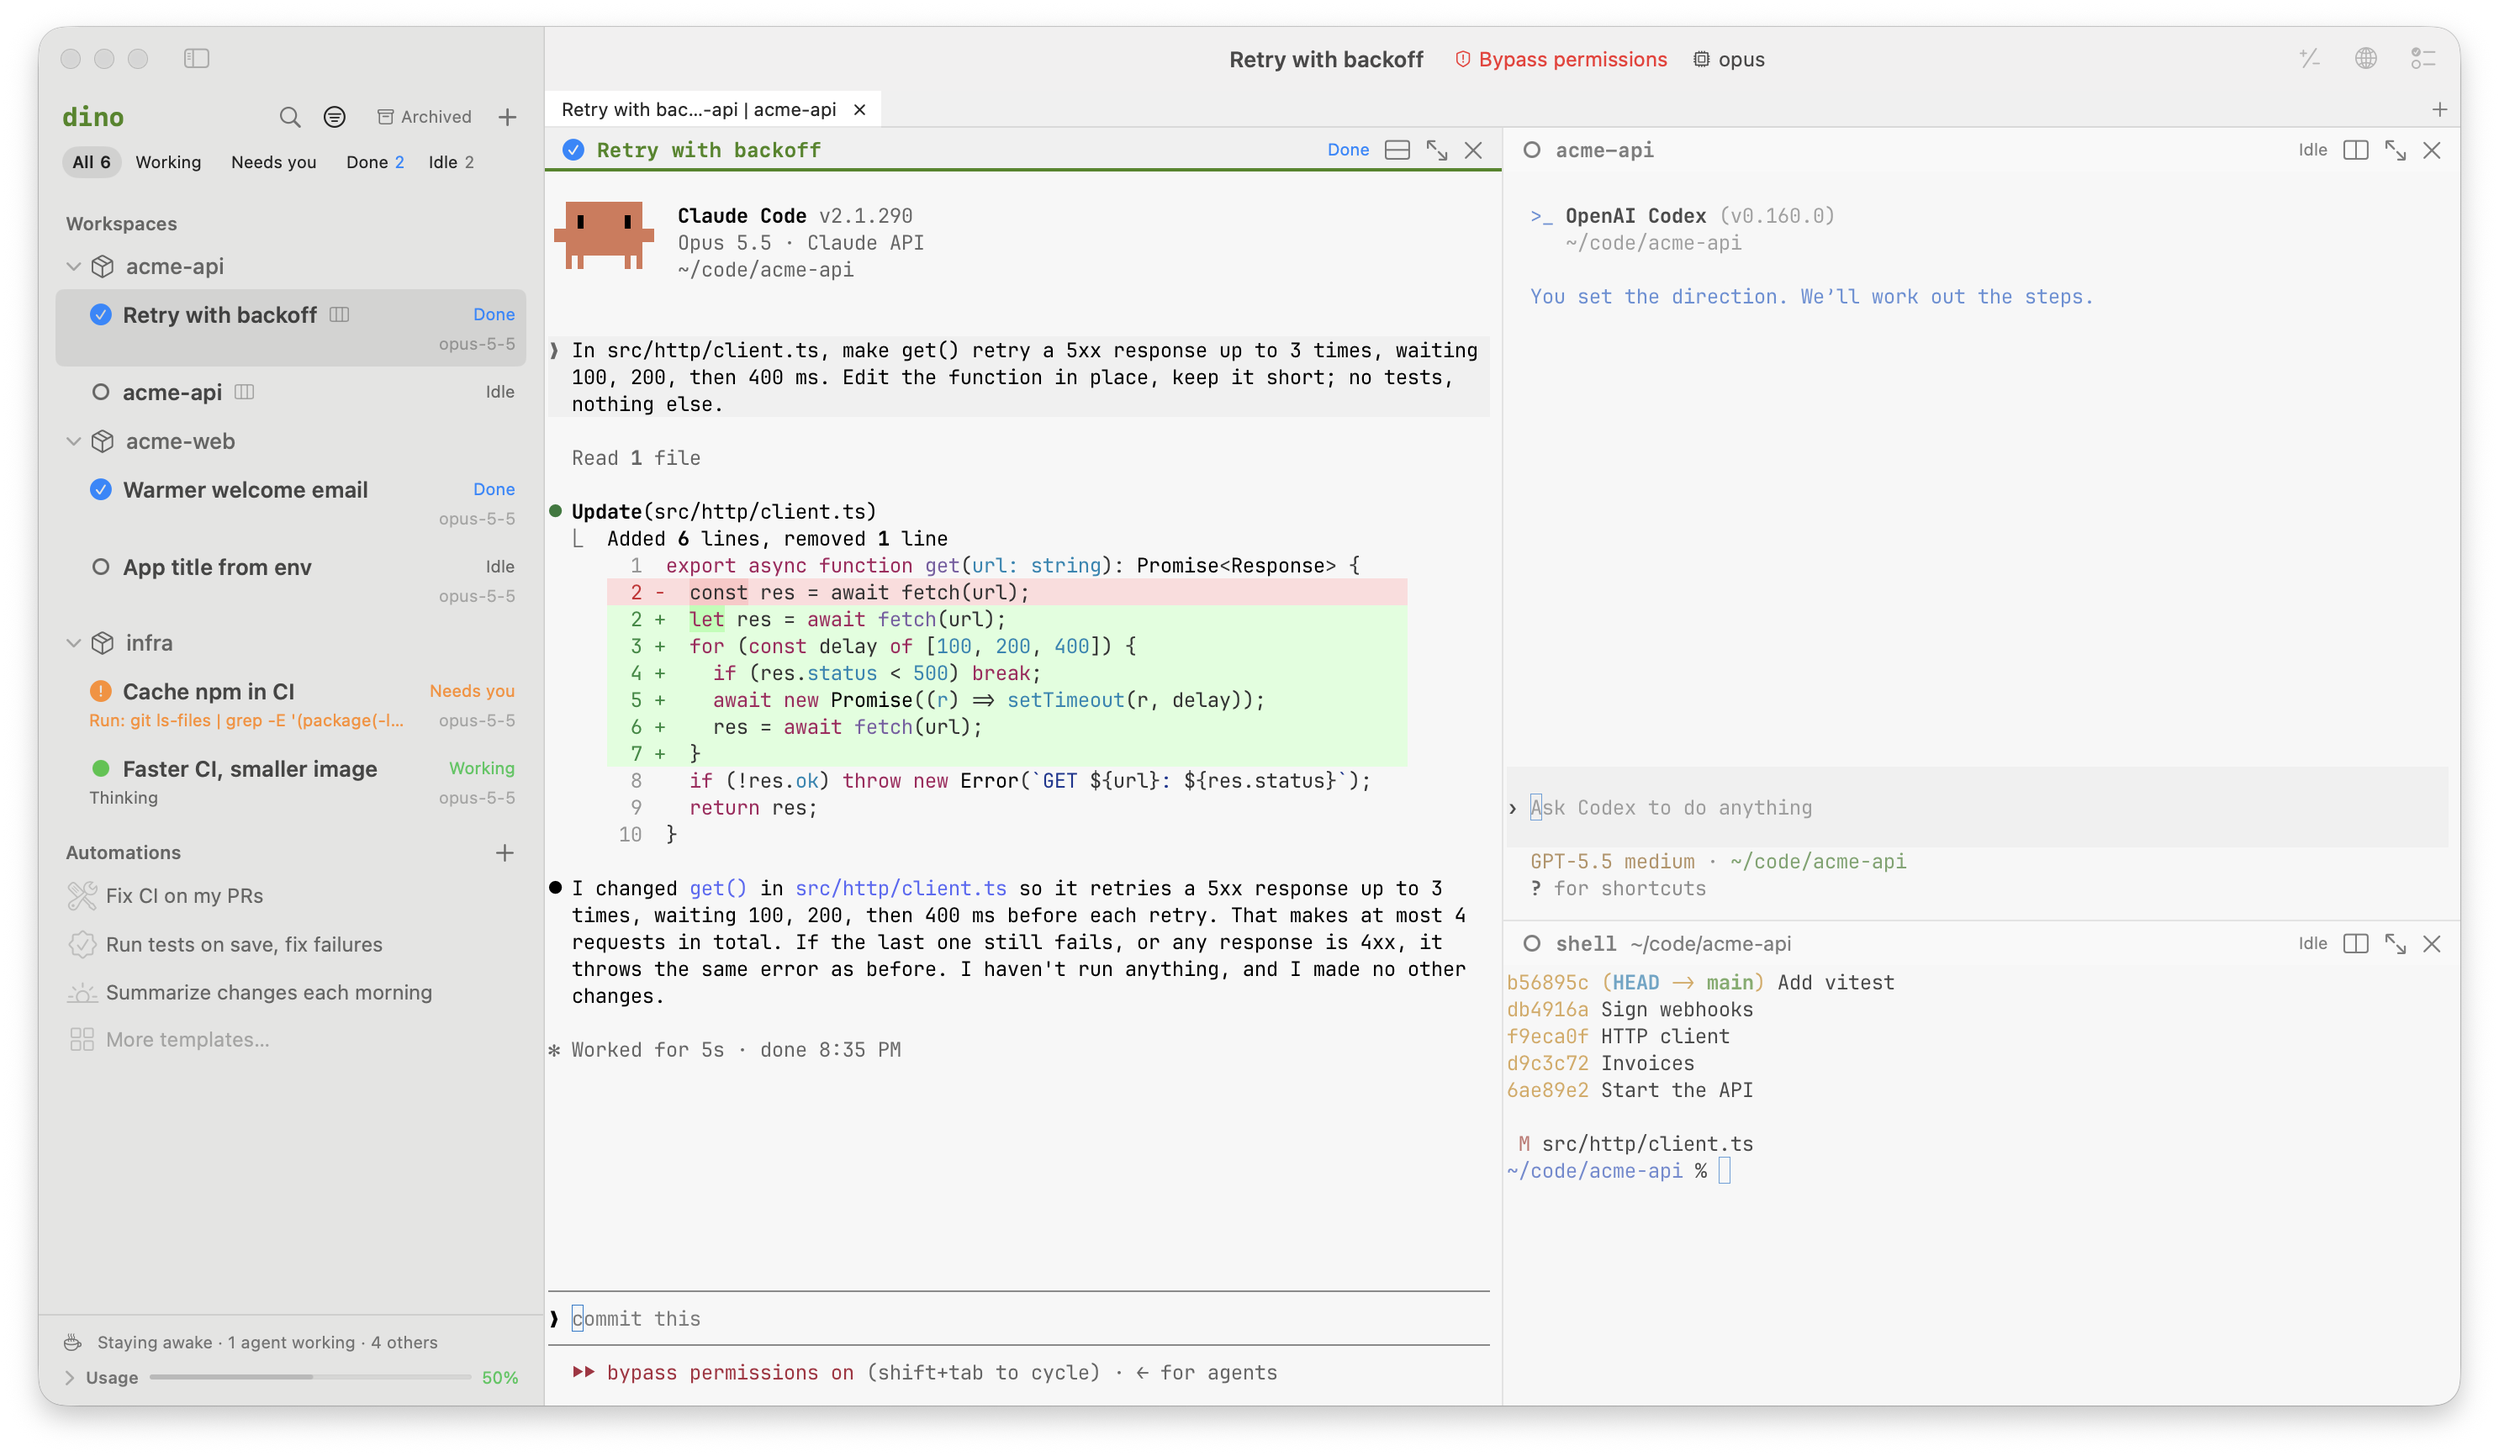
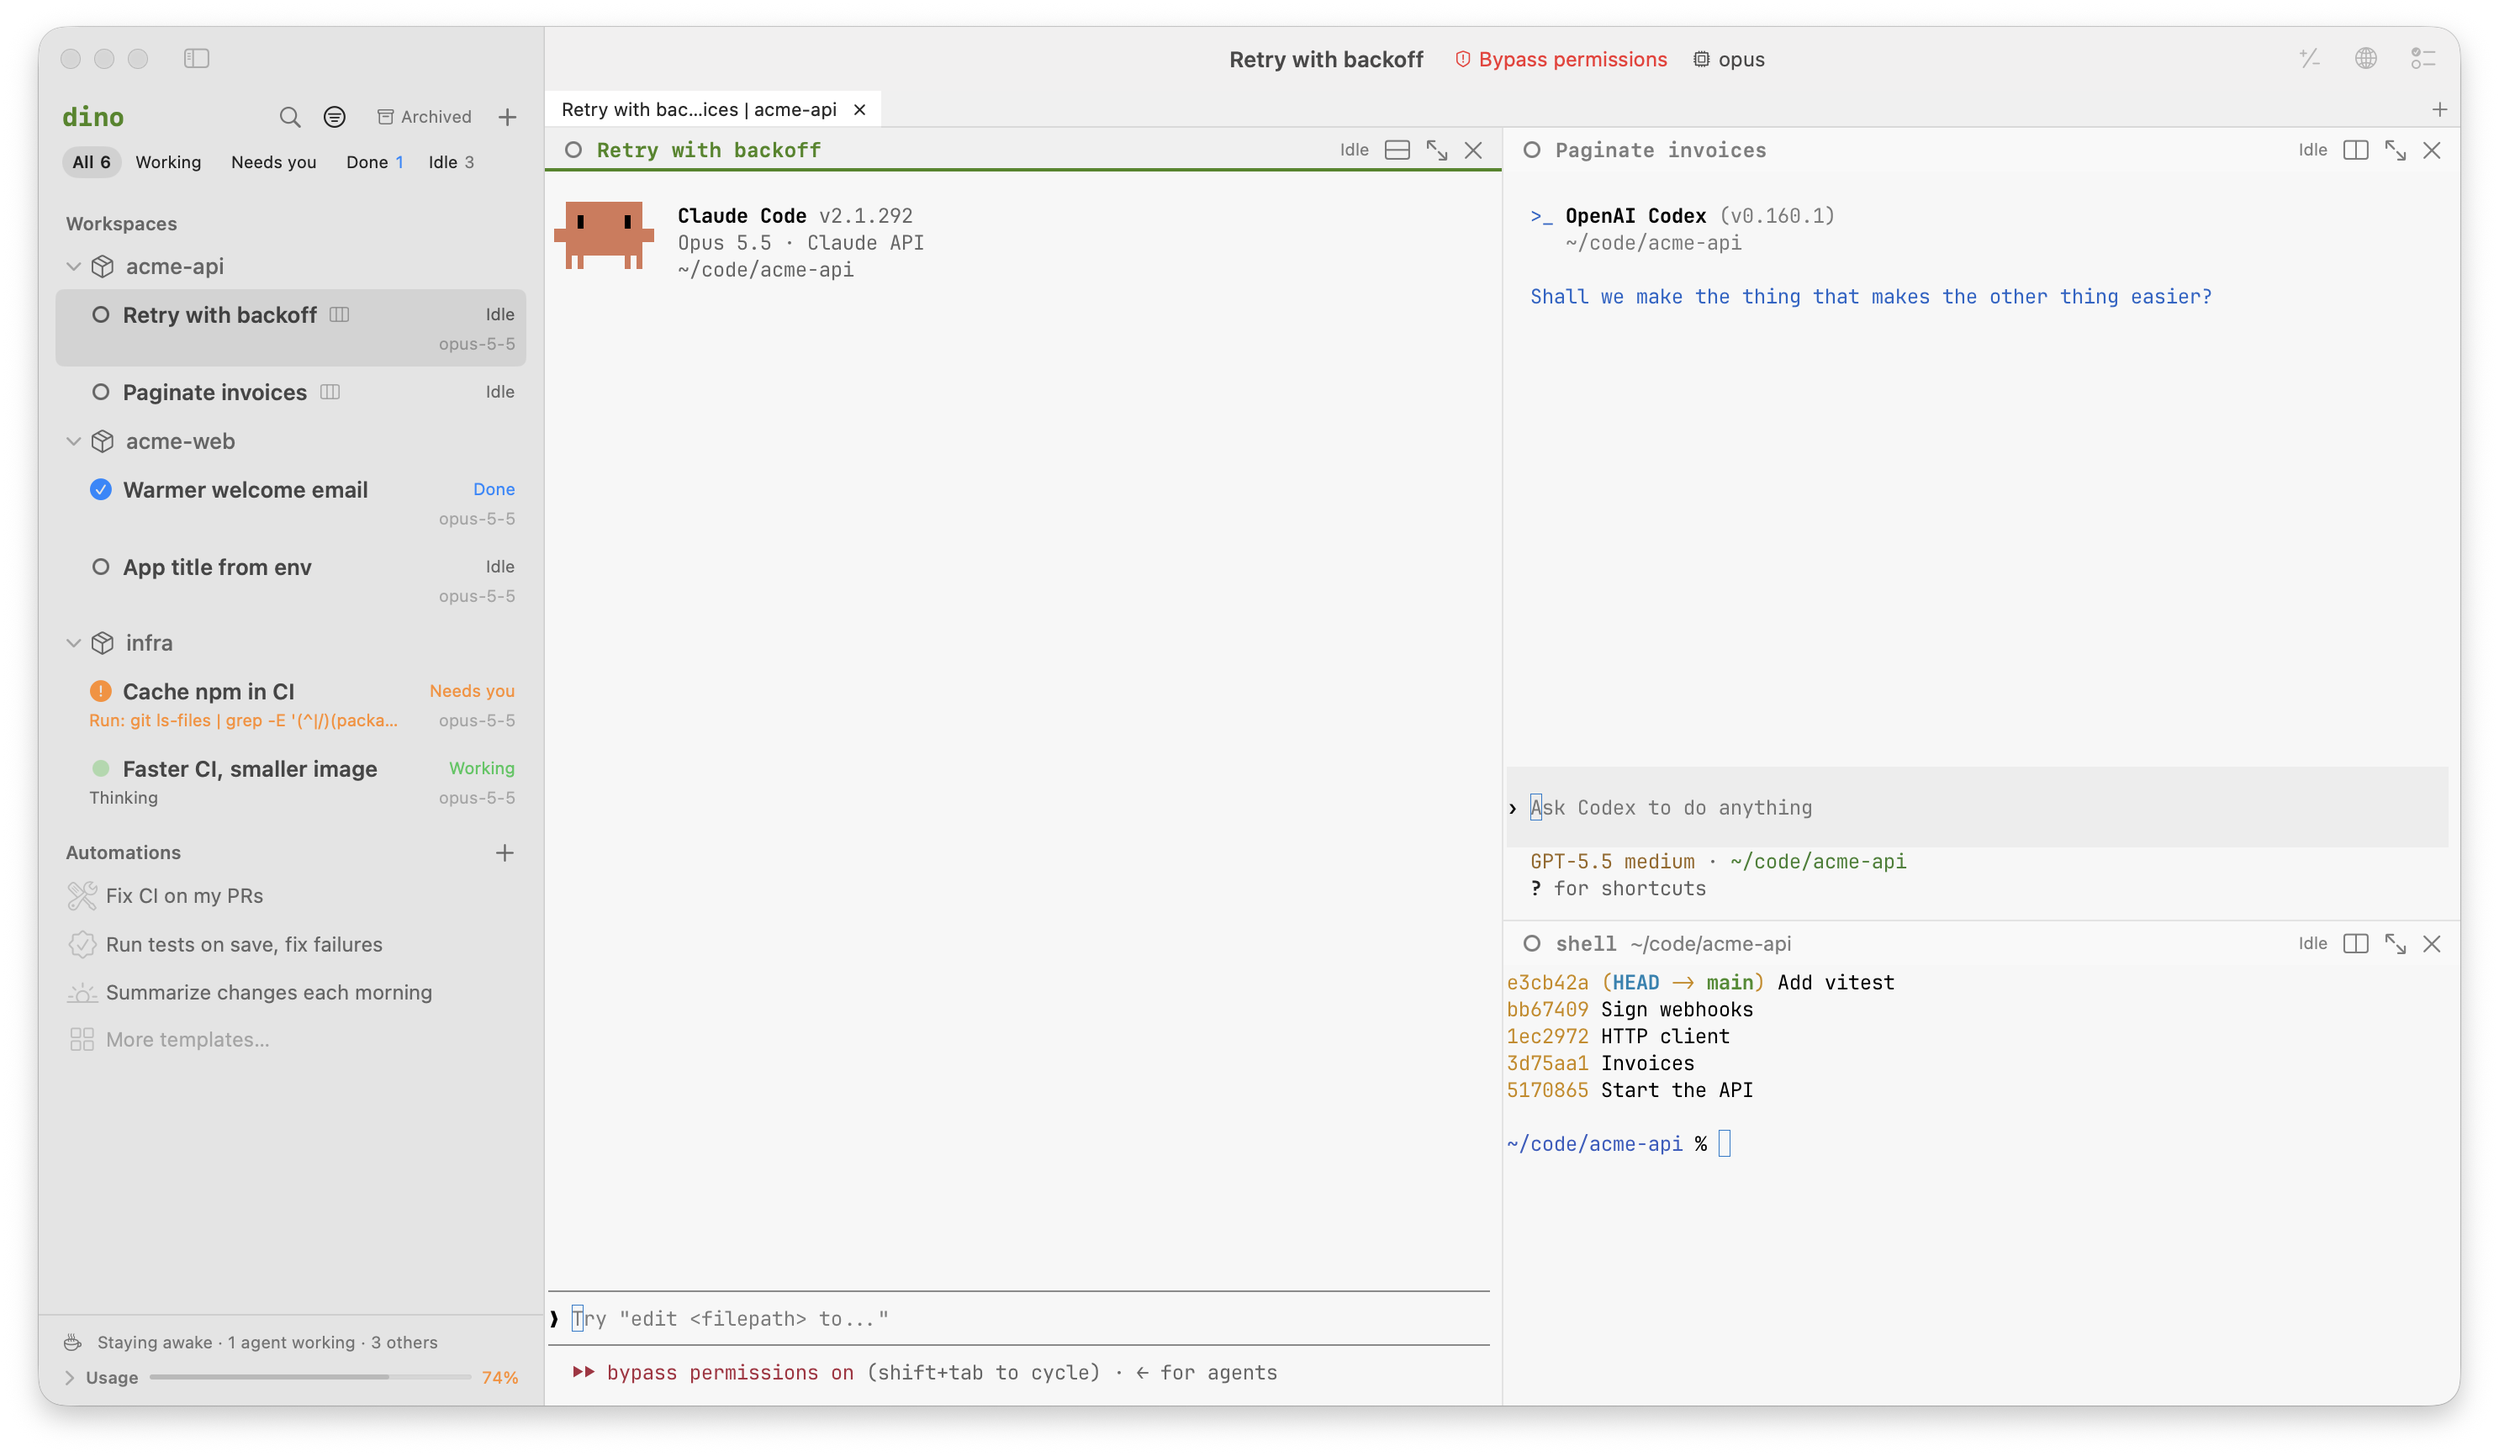
README: the screenshot shows Claude Code and Codex ready at their prompts, with no pane faded

diff --git a/README.md b/README.md
@@ -20,7 +20,7 @@
 <p align="center">
   <picture>
     <source media="(prefers-color-scheme: dark)" srcset="docs/images/screenshot-dark.png">
-    <img src="docs/images/screenshot-light.png" width="900" alt="The dino window split into three panes: on the left, Claude Code on Opus 5.5 in Bypass permissions mode, which has just made get() retry 5xx responses and shows its edit as a diff; on the right, Codex waiting at its prompt above a shell showing git log and the changed file. The sidebar groups sessions by project, each marked Working, Needs you, Done or Idle.">
+    <img src="docs/images/screenshot-light.png" width="900" alt="The dino window split into three panes: on the left, Claude Code on Opus 5.5 in Bypass permissions mode, ready at its prompt; on the right, Codex ready at its prompt above a shell showing git log. The sidebar groups sessions by project, each marked Working, Needs you, Done or Idle.">
   </picture>
 </p>
 
